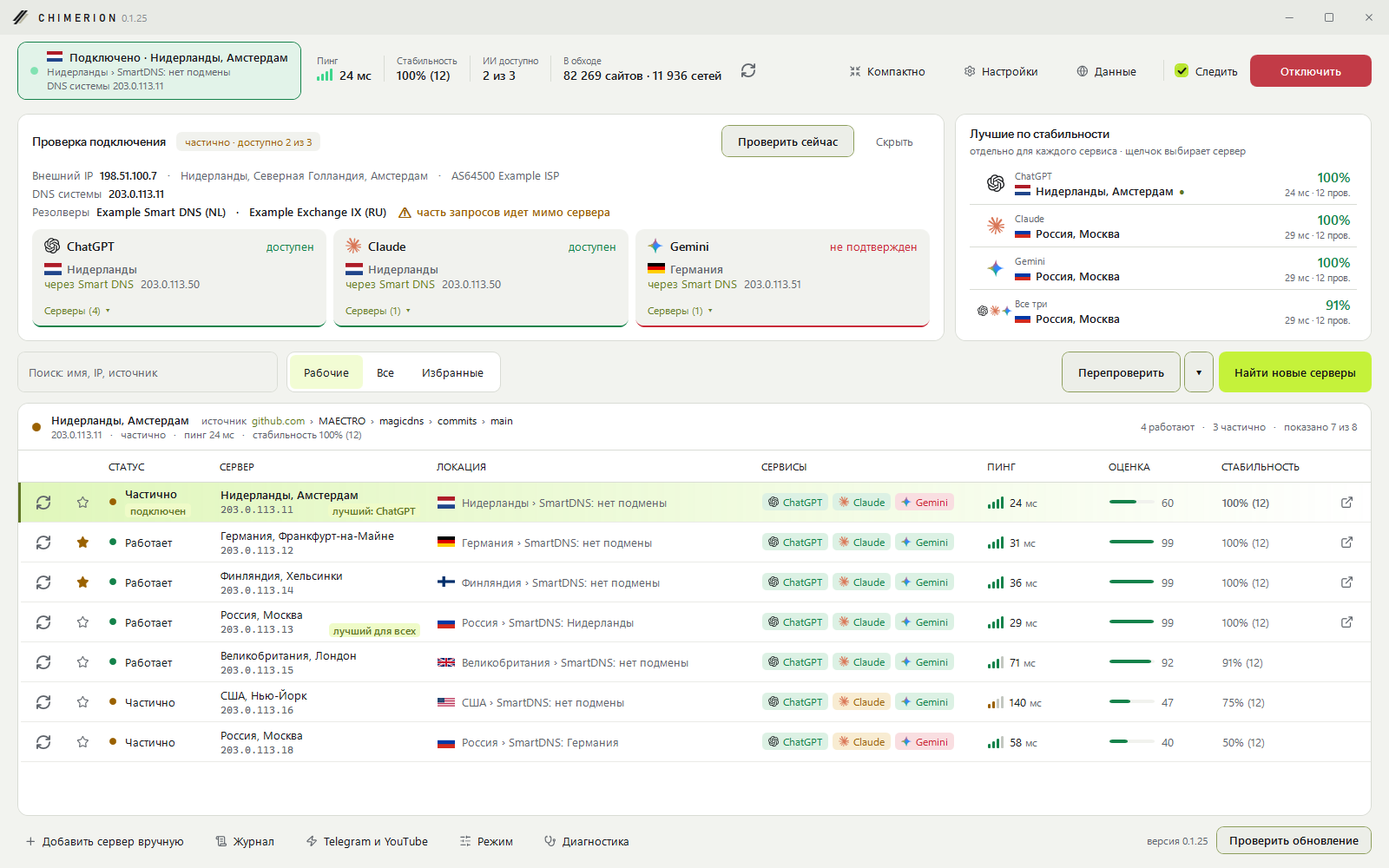
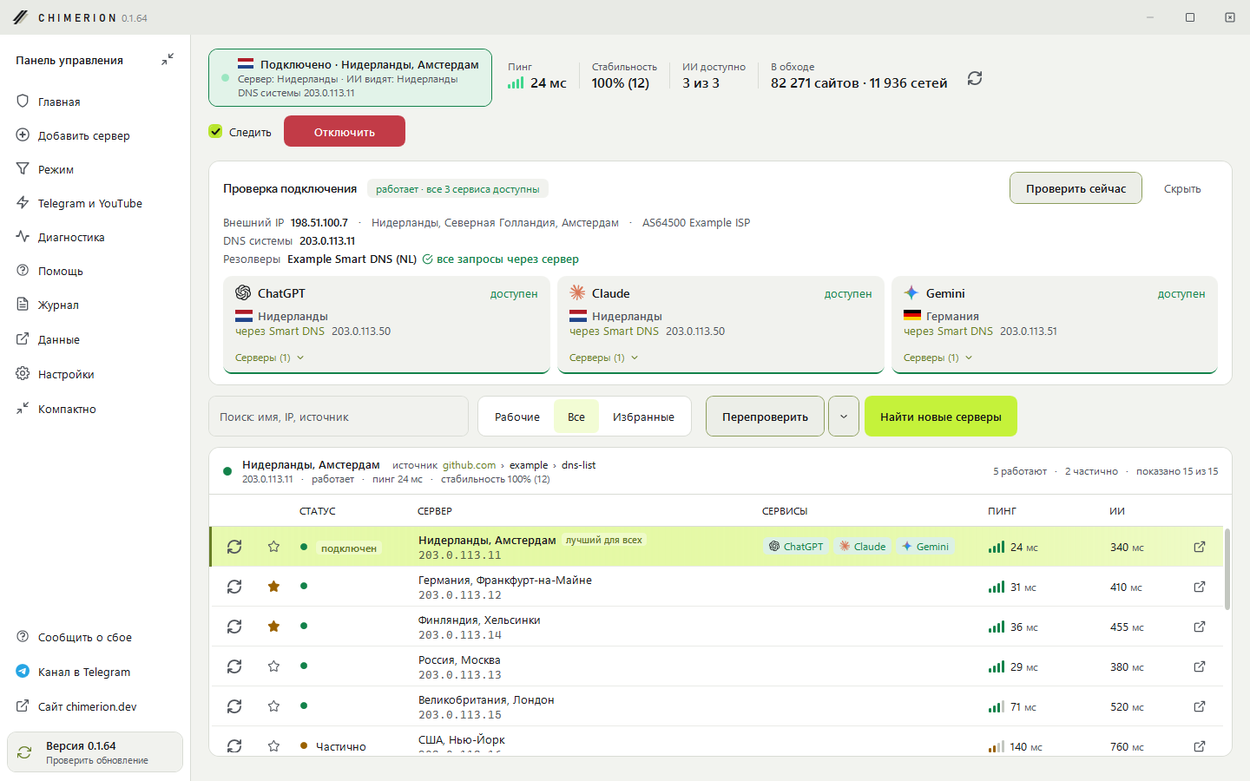
Версия 0.1.64: документация, новые снимки, правки колонки статуса и диагностики

diff --git a/site/index.html b/site/index.html
@@ -461,21 +461,21 @@ h2 { font: 650 clamp(27px, 3.3vw, 42px)/1.1 var(--display); letter-spacing: -.03
 
   <section class="band" aria-labelledby="look">
     <div class="wrap">
-      <h2 id="look">Серверы ищет и проверяет программа</h2>
-      <p class="intro">Она собирает Smart DNS с форумов, сайтов и Telegram-каналов и проверяет каждый: открывается ли сервис, отвечает ли API, из какой страны вас видят. Надежные стоят наверху, подключение одной кнопкой.</p>
+      <h2 id="look">Включили и пользуетесь</h2>
+      <p class="intro">Программа сама собирает Smart DNS с форумов, сайтов и Telegram-каналов и проверяет каждый: открывается ли сервис, из какой страны вас видят. На главном экране только важное, а полный список серверов и тонкие настройки в панели управления.</p>
       <figure class="screen">
         <div class="frame">
-          <img src="img/main.webp" srcset="img/main-480.webp 480w, img/main-800.webp 800w, img/main-1200.webp 1200w, img/main.webp 1600w" sizes="(max-width: 1220px) calc(100vw - 56px), 1164px" width="1600" height="1000" loading="lazy" alt="Главное окно CHIMERION: подключение к серверу в Нидерландах, проверка ChatGPT, Claude и Gemini и таблица проверенных серверов">
-          <span class="pin" style="left: 1.6%; top: 4.6%" aria-hidden="true">1</span>
-          <span class="pin" style="left: 1.6%; top: 14%" aria-hidden="true">2</span>
-          <span class="pin" style="left: 69.6%; top: 14%" aria-hidden="true">3</span>
-          <span class="pin" style="left: 1.6%; top: 49%" aria-hidden="true">4</span>
+          <img src="img/main.webp" srcset="img/main-480.webp 480w, img/main-800.webp 800w, img/main-1200.webp 1200w, img/main.webp 1440w" sizes="(max-width: 1220px) calc(100vw - 56px), 1164px" width="1440" height="900" loading="lazy" alt="Главный экран CHIMERION: защита включена, ChatGPT, Claude и Gemini доступны, Telegram, YouTube и Discord работают, три лучших сервера">
+          <span class="pin" style="left: 16.2%; top: 6.8%" aria-hidden="true">1</span>
+          <span class="pin" style="left: 16.2%; top: 34.1%" aria-hidden="true">2</span>
+          <span class="pin" style="left: 57.3%; top: 34.1%" aria-hidden="true">3</span>
+          <span class="pin" style="left: 16.2%; top: 63.4%" aria-hidden="true">4</span>
         </div>
         <ol class="legend">
-          <li data-pin="1"><span><b>Подключение</b>Сервер и страна, через которую нейросети видят вас.</span></li>
-          <li data-pin="2"><span><b>Проверка сервисов</b>Что открывается сейчас и через какой адрес.</span></li>
-          <li data-pin="3"><span><b>Лучшие серверы</b>Самый стабильный для каждого сервиса, щелчок подключает.</span></li>
-          <li data-pin="4"><span><b>Все найденные</b>Пинг, скорость нейросетей и стабильность по истории проверок.</span></li>
+          <li data-pin="1"><span><b>Защита</b>Один переключатель. Видно, через какой сервер идут нейросети и сколько держится подключение.</span></li>
+          <li data-pin="2"><span><b>Нейросети</b>Открываются ли ChatGPT, Claude и Gemini прямо сейчас, а если нет, то почему.</span></li>
+          <li data-pin="3"><span><b>Telegram, YouTube, Discord</b>Ускорение и обход замедления своим переключателем.</span></li>
+          <li data-pin="4"><span><b>Лучшие серверы</b>Три самых надежных. Выберите строку и нажмите «Подключить».</span></li>
         </ol>
       </figure>
     </div>
@@ -510,7 +510,7 @@ h2 { font: 650 clamp(27px, 3.3vw, 42px)/1.1 var(--display); letter-spacing: -.03
     <div class="wrap pair">
       <div>
         <h2 id="sites-h">Скажет, почему сайт не открывается</h2>
-        <p class="intro">Программа следит за сайтами, которыми вы пользуетесь. Если какой-то перестал открываться, придет уведомление с причиной, а в окне «Сайты» будет кнопка, которая это исправит.</p>
+        <p class="intro">Программа следит за сайтами, которыми вы пользуетесь. Если какой-то перестал открываться, придет уведомление с причиной, а в «Помощи» на вкладке «Под наблюдением» будет кнопка, которая это исправит.</p>
         <ul class="ticks">
           <li><b>Блокирует провайдер:</b> одна кнопка добавит сайт в обход zapret.</li>
           <li><b>Закрыт для России:</b> сайт отправится в Smart DNS.</li>
@@ -518,7 +518,7 @@ h2 { font: 650 clamp(27px, 3.3vw, 42px)/1.1 var(--display); letter-spacing: -.03
           <li><b>Список хранится у вас.</b> Наружу уходит только имя сайта, который не открылся.</li>
         </ul>
       </div>
-      <div class="shot"><img src="img/sites.webp" width="584" height="709" decoding="async" alt="Окно «Сайты»: LinkedIn и X блокирует провайдер, Spotify закрыт для России, у каждого кнопка решения"></div>
+      <div class="shot"><img src="img/sites.webp" width="584" height="709" decoding="async" alt="Сайты под наблюдением: LinkedIn и X блокирует провайдер, Spotify закрыт для России, у каждого кнопка решения"></div>
     </div>
   </section>
 
@@ -598,7 +598,7 @@ h2 { font: 650 clamp(27px, 3.3vw, 42px)/1.1 var(--display); letter-spacing: -.03
         </details>
         <details>
           <summary>Как проверить, что архив настоящий?</summary>
-          <p>Каждый архив собирается на GitHub Actions из открытого кода, а GitHub подтверждает происхождение. Проверить можно командой <span class="code">gh attestation verify CHIMERION-0.1.37-win-x64.zip -R under2ker/chimerion</span>. Программа сама проверяет подпись каждого обновления.</p>
+          <p>Каждый архив собирается на GitHub Actions из открытого кода, а GitHub подтверждает происхождение. Проверить можно командой <span class="code">gh attestation verify CHIMERION-0.1.64-win-x64.zip -R under2ker/chimerion</span>. Программа сама проверяет подпись каждого обновления.</p>
         </details>
         <details>
           <summary>Чем это лучше VPN?</summary>

diff --git a/MainWindow.xaml b/MainWindow.xaml
@@ -446,7 +446,7 @@
                             </DataGridTemplateColumn.CellTemplate>
                         </DataGridTemplateColumn>
 
-                        <DataGridTemplateColumn x:Name="ColStatus" Header="СТАТУС" Width="124" SortMemberPath="Rank">
+                        <DataGridTemplateColumn x:Name="ColStatus" Header="СТАТУС" Width="136" SortMemberPath="Rank">
                             <DataGridTemplateColumn.CellTemplate>
                                 <DataTemplate>
                                     <Grid x:Name="stRoot" ClipToBounds="True" Margin="0,0,12,0">

diff --git a/MainWindow.Window.cs b/MainWindow.Window.cs
@@ -216,7 +216,7 @@ public partial class MainWindow
         ColRefresh.Visibility = v; // в компактном виде слева от названий оставалась пустая полоса
         ConnPill.Margin = new Thickness(0);
         RootGrid.Margin = compact ? new Thickness(12) : new Thickness(20, 16, 20, 16);
-        ColStatus.Width = new DataGridLength(124);
+        ColStatus.Width = new DataGridLength(136);
         ColStatus.Visibility = v; // в узкой колонке точка обрезалась; рабочие и так видны по цвету пинга
         ColStatus.Header = compact ? "" : "СТАТУС"; // в узкой колонке заголовок обрезается, точка и так понятна
         ColPing.Width = compact ? new DataGridLength(130) : new DataGridLength(140);

diff --git a/DiagnosticsWindow.cs b/DiagnosticsWindow.cs
@@ -79,7 +79,7 @@ internal sealed class DiagnosticsWindow
         _tools = tools;
         _logTail = logTail;
         _log = log;
-        _w = DnexDialog.CreateWindow("Диагностика", 680);
+        _w = DnexDialog.CreateWindow("Диагностика", 760);
         _w.Closed += (_, _) => _open = null;
         // Кнопки внизу закреплены, прокручивается только список: на маленьком экране они не уезжают
         _w.MaxHeight = Math.Min(960, SystemParameters.WorkArea.Height - 40); // на большом экране не во всю высоту: длинный список прокручивается внутри

diff --git a/README.md b/README.md
@@ -26,35 +26,57 @@
 
 ## Как это выглядит
 
-![Главное окно](docs/screenshots/chimerion-main.png)
+Главный экран: защита одним переключателем, состояние нейросетей, Telegram, YouTube и Discord, лучшие серверы и последние события.
+
+![Главный экран](docs/screenshots/chimerion-home.png)
+
+Панель управления со всеми серверами, проверкой подключения и поиском:
+
+![Панель управления](docs/screenshots/chimerion-main.png)
 
 Светлая тема и компактный вид:
 
 <p>
-  <img src="docs/screenshots/chimerion-main-light.png" width="640" alt="Светлая тема">
+  <img src="docs/screenshots/chimerion-home-light.png" width="640" alt="Светлая тема">
   <img src="docs/screenshots/chimerion-compact.png" width="190" alt="Компактный вид">
 </p>
 
-«Telegram и YouTube», «Два DNS» и «Диагностика»:
+«Telegram и YouTube», «Режим» и «Диагностика»:
 
 <p>
   <img src="docs/screenshots/chimerion-tools.png" width="270" alt="Telegram и YouTube">
-  <img src="docs/screenshots/chimerion-split-dns.png" width="270" alt="Два DNS">
+  <img src="docs/screenshots/chimerion-mode.png" width="270" alt="Режим">
   <img src="docs/screenshots/chimerion-diagnostics.png" width="270" alt="Диагностика">
 </p>
 
-На снимках выдуманные данные: адреса из диапазона документации `203.0.113.0/24`, названия серверов условные.
+«Сайты для обхода», «Два DNS», «Помощь», «Журнал» и «Настройки»:
+
+<p>
+  <img src="docs/screenshots/chimerion-sites.png" width="270" alt="Сайты для обхода">
+  <img src="docs/screenshots/chimerion-split-dns.png" width="200" alt="Два DNS">
+  <img src="docs/screenshots/chimerion-help.png" width="340" alt="Помощь">
+</p>
+<p>
+  <img src="docs/screenshots/chimerion-log.png" width="410" alt="Журнал">
+  <img src="docs/screenshots/chimerion-settings.png" width="400" alt="Настройки">
+</p>
+
+На снимках выдуманные данные: адреса из диапазонов документации `203.0.113.0/24` и `198.51.100.0/24`, названия серверов условные.
 
 ## Что умеет
+
+**Главный экран.** Большой переключатель включает и выключает защиту. Под ним видно, через какой Smart DNS идут нейросети, какой DNS у остального интернета и сколько держится подключение. Ниже открываются ли ChatGPT, Claude и Gemini (если нет, кнопка «Подробнее» объяснит причину), переключатели Telegram, YouTube и Discord, три лучших сервера и последние события. Все остальное в панели управления: полный список серверов, поиск, проверка подключения и тонкие настройки.
+
+**Режимы.** Окно «Режим» включает нужное одним щелчком: «Только ИИ», «Все сразу», «Игры» или «Все выключить». Перед включением видно, что изменится. Режим можно сменить и из трея, а в самом окне сочетаниями Ctrl+1…4.
 
 **Smart DNS для нейросетей.** Программа собирает DNS-серверы с сайтов, форумов 4PDA, Telegram-каналов и GitHub, а при первом запуске сразу получает мой проверенный список. Каждый сервер проверяется по-настоящему: подменяет ли он адреса ChatGPT, Claude и Gemini, отвечает ли API, не пишет ли сервис «регион не поддерживается», из какой страны вас видят. По этим проверкам считаются стабильность и оценка, лучшие серверы стоят наверху. Подключение делается одной кнопкой, исходные настройки сохраняются, отключение возвращает все как было.
 
 **Два DNS.** Нейросети идут через Smart DNS, а весь остальной интернет через обычный DNS. Банки, госуслуги и российские сайты при этом не замечают подмены. Общий DNS можно оставить свой или выбрать из готовых, программа покажет, какой лучше открывает заблокированное и не ломает российские сайты.
 
 **Telegram и YouTube.** Две открытые программы, которые CHIMERION ставит, запускает и обновляет сама:
-[TG WS Proxy](https://github.com/Flowseal/tg-ws-proxy) ускоряет Telegram Desktop, а [zapret-discord-youtube](https://github.com/Flowseal/zapret-discord-youtube) снимает замедление YouTube, Discord и других сайтов. Для zapret есть 38 готовых наборов сайтов по разделам, большой список заблокированного от [Re:filter](https://github.com/1andrevich/Re-filter-lists) и ваши собственные сайты. Стратегию обхода программа подбирает сама: по очереди пробует каждую на YouTube, Discord и ваших сайтах и предлагает лучшую.
+[TG WS Proxy](https://github.com/Flowseal/tg-ws-proxy) ускоряет Telegram Desktop, а [zapret-discord-youtube](https://github.com/Flowseal/zapret-discord-youtube) снимает замедление YouTube, Discord и других сайтов. В окне «Сайты для обхода» есть 38 готовых наборов сайтов по разделам, большие списки заблокированного ([Re:filter](https://github.com/1andrevich/Re-filter-lists) и другие) и ваши собственные сайты. Стратегию обхода программа подбирает сама: по очереди пробует каждую на YouTube, Discord и ваших сайтах и предлагает лучшую.
 
-**Диагностика.** Одна кнопка собирает все проверки в отчет: подключение, доступ к сервисам, страну выхода, помехи вроде VPN или «безопасного DNS» в браузере, состояние zapret и прокси. Найденное часто можно исправить прямо из отчета. Там же проверяется любой сайт, который не открывается: программа скажет, виноват DNS, провайдер или сам сайт, и что поможет.
+**Диагностика.** Одна кнопка собирает все проверки в отчет: подключение, доступ к сервисам, страну выхода и ее репутацию, помехи вроде VPN или «безопасного DNS» в браузере, состояние zapret и прокси. Проблемы собраны сверху, у каждой есть «Подробнее» и кнопка, которая ее исправляет. Отчет можно скопировать или сохранить файлом, IP, адреса локальной сети и имя пользователя из него убраны. Там же проверяется любой сайт, который не открывается: программа скажет, виноват DNS, провайдер или сам сайт, и что поможет.
 
 **Сторож и трей.** Пока вы подключены, программа следит за DNS. Если его сбросила другая программа, подключение возвращается, если сервер перестал отвечать, она переключается на следующий надежный. В фоне проверяется, открываются ли ChatGPT, Claude и Gemini через текущий сервер: если сервер упал или перестал подменять адреса, придет уведомление с причиной и предложением сменить сервер. Можно запускать вместе с Windows: тогда CHIMERION стартует в трее и сам возвращает подключение. При выходе можно оставить работать DNS, обход и ускорение Telegram.
 
@@ -64,9 +86,11 @@
 
 **Для разработчиков.** Наборы для Cursor, GitHub Copilot, Windsurf, JetBrains AI и других LLM включаются одной кнопкой в «Двух DNS», а программа знает, какие из них открывает ваш сервер. Проверяется WSL: без DNS-туннеля Claude Code и pip внутри Linux идут мимо Smart DNS, это включается одной кнопкой.
 
+**Помощь и журнал.** В окне «Помощь» три вкладки: «Не открывается» проверяет сервис или сайт по шагам и подсказывает, что сделать, «Под наблюдением» следит за сайтами, которыми вы пользуетесь, «На телефоне» показывает, как поставить тот же Smart DNS на iPhone и Android. «Журнал» хранит события за 3 дня: фильтры, поиск, копирование всего журнала или отдельных строк, сохранение в файл. Повторы склеиваются в одну строку с числом.
+
 **Скрытие данных.** Отдельная галочка в настройках: окна программы не попадают на скриншоты, запись и демонстрацию экрана, а ваш IP, город и провайдер на экране заменяются на «скрыто».
 
-**Удобство.** Светлая и темная темы, свои цвета интерфейса, русский и английский языки, компактный вид, избранные серверы, журнал. Там, где нужно что-то выбрать, есть метка «рекомендуем» и кнопки «Рекомендуемые» и «Выбрать все».
+**Удобство.** Светлая и темная темы, свои цвета интерфейса, русский и английский языки, компактный вид, сворачиваемое меню, избранные серверы, плавные анимации переключателей. Там, где нужно что-то выбрать, есть метка «рекомендуем» и кнопки «Рекомендуемые» и «Выбрать все».
 
 **Обновления.** Программа проверяет новую версию на GitHub и ставит ее по кнопке. Архив собирается на GitHub Actions и подписан моим ключом, без верной подписи обновление не ставится. Срочные исправления приходят через отдельный канал на Cloudflare R2, большие релизы через GitHub, программа берет более новую версию. Если GitHub недоступен, архив скачивается через зеркала. Подпись проверяется везде одинаково. Новая версия встает на место старой под именем `CHIMERION.exe`, ярлыки и автозапуск переходят на нее сами. Если новая версия не запустится, CHIMERION вернет прежнюю.
 
@@ -92,7 +116,7 @@
 
 ## Что уходит в сеть
 
-- Источники серверов, которые вы настроили, страницы, на которые они ведут, и поиск через DuckDuckGo и Bing.
+- Источники серверов, которые вы настроили, страницы, на которые они ведут, поиск через Brave, DuckDuckGo, Bing и поиск репозиториев GitHub. Ленты Telegram-каналов `t.me/s/…` читаются через сервер общей карты: из России t.me часто не открывается напрямую. Каталоги всех публичных DNS мира (вроде public-dns.info) пропускаются: ни один их сервер не открывает нейросети.
 - Проверка серверов: эталонный DoH (`1.1.1.1`, `dns.google`), API ChatGPT, Claude и Gemini, служебные страницы `chatgpt.com/cdn-cgi/trace` и `claude.ai/cdn-cgi/trace`, тест утечки `dnscheck.tools`.
 - Локация адресов: `ipinfo.io`, `ipwho.is`, `country.is`, флаги стран с `flagcdn.com`.
 - Репутация адресов выхода серверов: `proxycheck.io` (оценка риска) и черные списки DroneBL, UCEPROTECT и SpamCop через DNS-over-HTTPS. Проверяются только адреса прокси Smart DNS, ваш IP туда не уходит. Итоги хранятся три дня.
@@ -106,11 +130,12 @@
 
 ## Настройки и данные
 
-Кнопка «Данные» открывает папку с настройками и списком серверов (`%AppData%\DNEX`). zapret ставится в `C:\ProgramData\DNEX\zapret`: в пути с кириллицей он не работает.
+Пункт «Данные» в меню панели управления открывает папку с настройками и списком серверов (`%AppData%\DNEX`). zapret ставится в `C:\ProgramData\DNEX\zapret`: в пути с кириллицей он не работает.
 
 - `settings.json`: источники, поисковые запросы, проверяемые сервисы, цвета, тема и язык.
 - `servers.json`: серверы и результаты проверок. `junk.json`: удаленные серверы, 14 дней их не добавляют снова.
 - `active.json` и `dns-backup.json`: текущее подключение и исходные DNS, чтобы отключиться даже после сбоя.
+- `logs\`: журнал по дням за последние 3 дня, вместе с подробной служебной записью для разбора сбоев. IP-адреса, город и имя пользователя Windows в журнал не попадают.
 - `error.log`: ошибки, если что-то пошло не так.
 
 Если без входа на 4PDA видна не вся информация, в `settings.json` можно добавить Cookie из браузера:
@@ -145,17 +170,20 @@ dotnet publish CHIMERION.csproj -c Release -r win-x64 --self-contained false -p:
 
 | Путь | Что внутри |
 |---|---|
-| `MainWindow.xaml(.cs)` | главное окно, таблица серверов, подключение, трей |
+| `MainWindow.xaml(.cs)`, `MainWindow.*.cs` | главный экран, панель управления, таблица серверов, подключение, трей |
+| `ModeWindow.cs`, `HelpWindow.cs`, `LogWindow.cs` | окна «Режим», «Помощь» и «Журнал» |
+| `BypassSitesWindow.cs` | сайты для обхода: наборы, большие списки, свои сайты |
 | `SettingsWindow.xaml(.cs)`, `SettingsColors.cs` | настройки, цвета и тема |
 | `ToolsWindow.cs`, `Services/Tools/` | Telegram и YouTube: установка, запуск и обновление TG WS Proxy и zapret |
 | `SplitDnsWindow.cs`, `Services/SplitDns.cs` | «Два DNS» |
 | `DiagnosticsWindow.cs`, `Services/Diagnostics.cs`, `Services/SiteCheck.cs` | диагностика и проверка сайта |
 | `Services/DnsSwitcher.cs`, `Services/DnsWire.cs` | смена и откат DNS, DNS-клиент для UDP и DoH |
 | `Services/ServerChecker.cs`, `Services/ConnectionProbe.cs` | проверка серверов и подключения |
-| `Services/SourceParser.cs` | поиск серверов по источникам |
+| `Services/SourceParser.cs`, `Services/ServerListGuard.cs` | поиск серверов по источникам и защита списка от каталогов DNS |
+| `Services/LogStore.cs`, `Services/SupportTrace.cs` | журнал за 3 дня и подробная запись для разбора сбоев |
 | `Services/Updater.cs`, `Services/UpdateChecker.cs` | обновление из программы |
 | `Services/ThemeColors.cs`, `Services/Loc.cs` | темы, свои цвета, английский язык |
-| `Controls/` | знак CHIMERION, иконки, значок связи, график истории, плавная прокрутка |
+| `Controls/` | знак CHIMERION, иконки, переключатель, значок связи, график истории, плавная прокрутка |
 | `catalog/` | подписанный список серверов и наборы сайтов для обхода |
 | `docs/brand/` | логотип, иконки и баннер |
 | `tests/CHIMERION.Tests` | тесты |
@@ -168,7 +196,7 @@ dotnet publish CHIMERION.csproj -c Release -r win-x64 --self-contained false -p:
 - [Канал @chimeriondns](https://t.me/chimeriondns): новости о версиях. Каждый пост помечен: крупное обновление, обновление или хотфикс.
 - [Чат](https://t.me/+rXN4fR7HWcxlMTYy): темы «Помощь», «Баг-репорты», «Рабочие DNS» и «Идеи». Там же закреплена инструкция по установке.
 
-Об ошибках можно писать и в [issues на GitHub](https://github.com/under2ker/chimerion/issues): приложите отчет из «Диагностики», кнопка «Копировать для GitHub».
+Об ошибках можно писать и в [issues на GitHub](https://github.com/under2ker/chimerion/issues): приложите отчет из «Диагностики»: кнопка «Скопировать отчет» или «Сохранить отчет».
 
 ## Благодарности
 

diff --git a/CHANGELOG.md b/CHANGELOG.md
@@ -1,5 +1,13 @@
 # История изменений
 
+## 0.1.64
+
+Документация и мелкие правки
+- README: новые снимки (главный экран, панель управления, светлая тема, «Режим», «Журнал», «Помощь», «Сайты для обхода», диагностика), описание главного экрана, режимов, окон «Помощь» и «Журнал», где теперь ищутся серверы и где лежит журнал.
+- Таблица серверов: плашка «подключен» в колонке статуса больше не обрезается.
+- Диагностика: окно шире, кнопка «Повторить» внизу больше не обрезается рядом с «Сохранить отчет».
+- Сайт: новый снимок главного экрана с подписями, тексты под новые окна.
+
 ## 0.1.63
 
 Надежность
